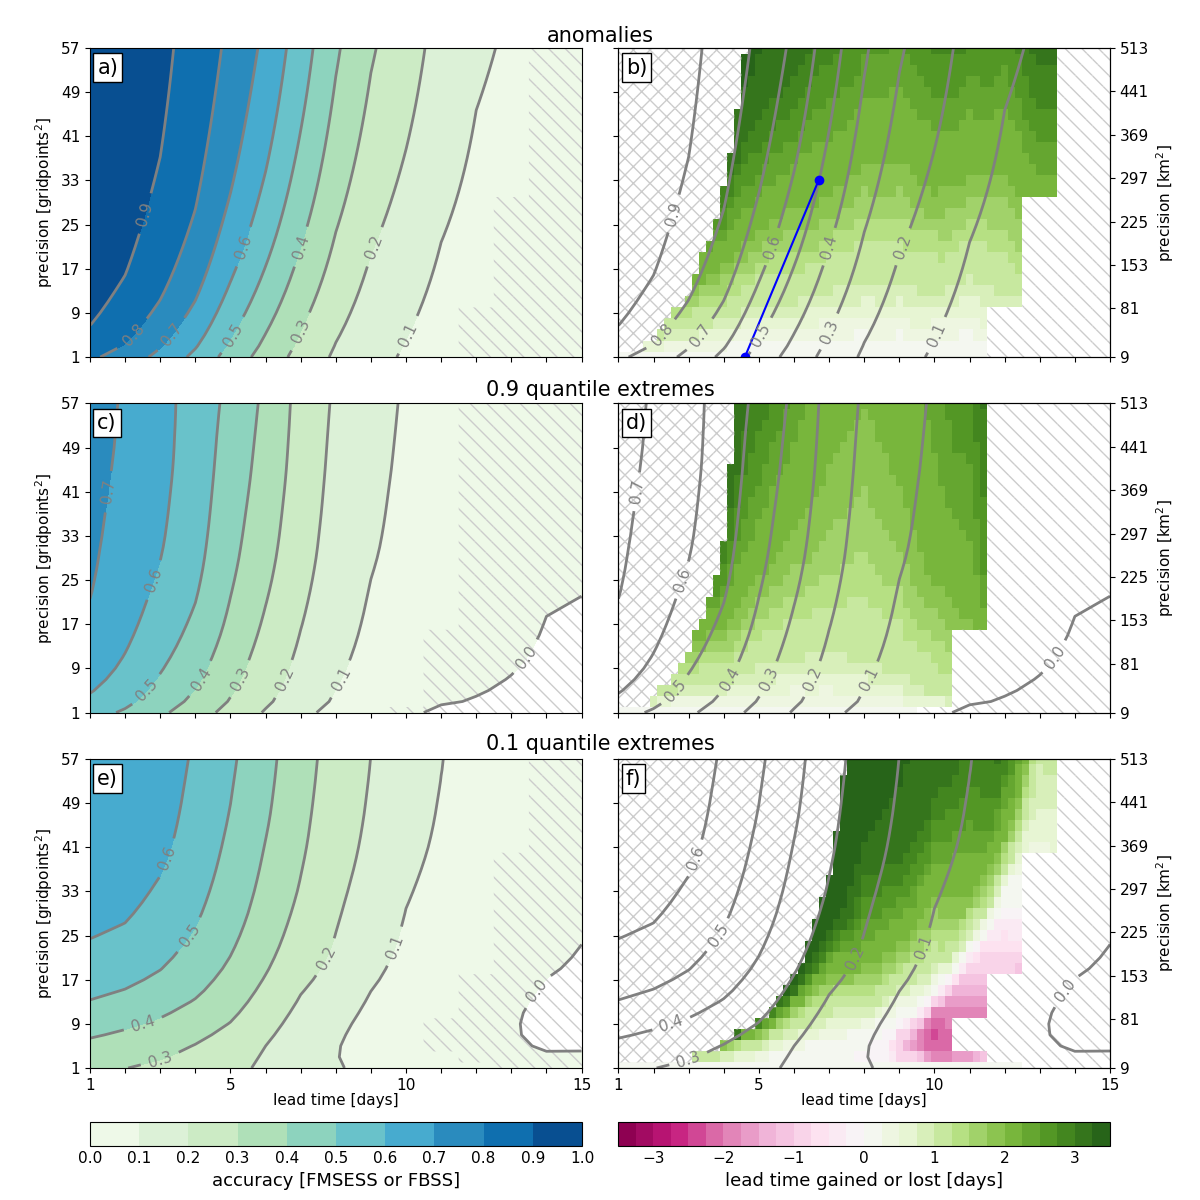
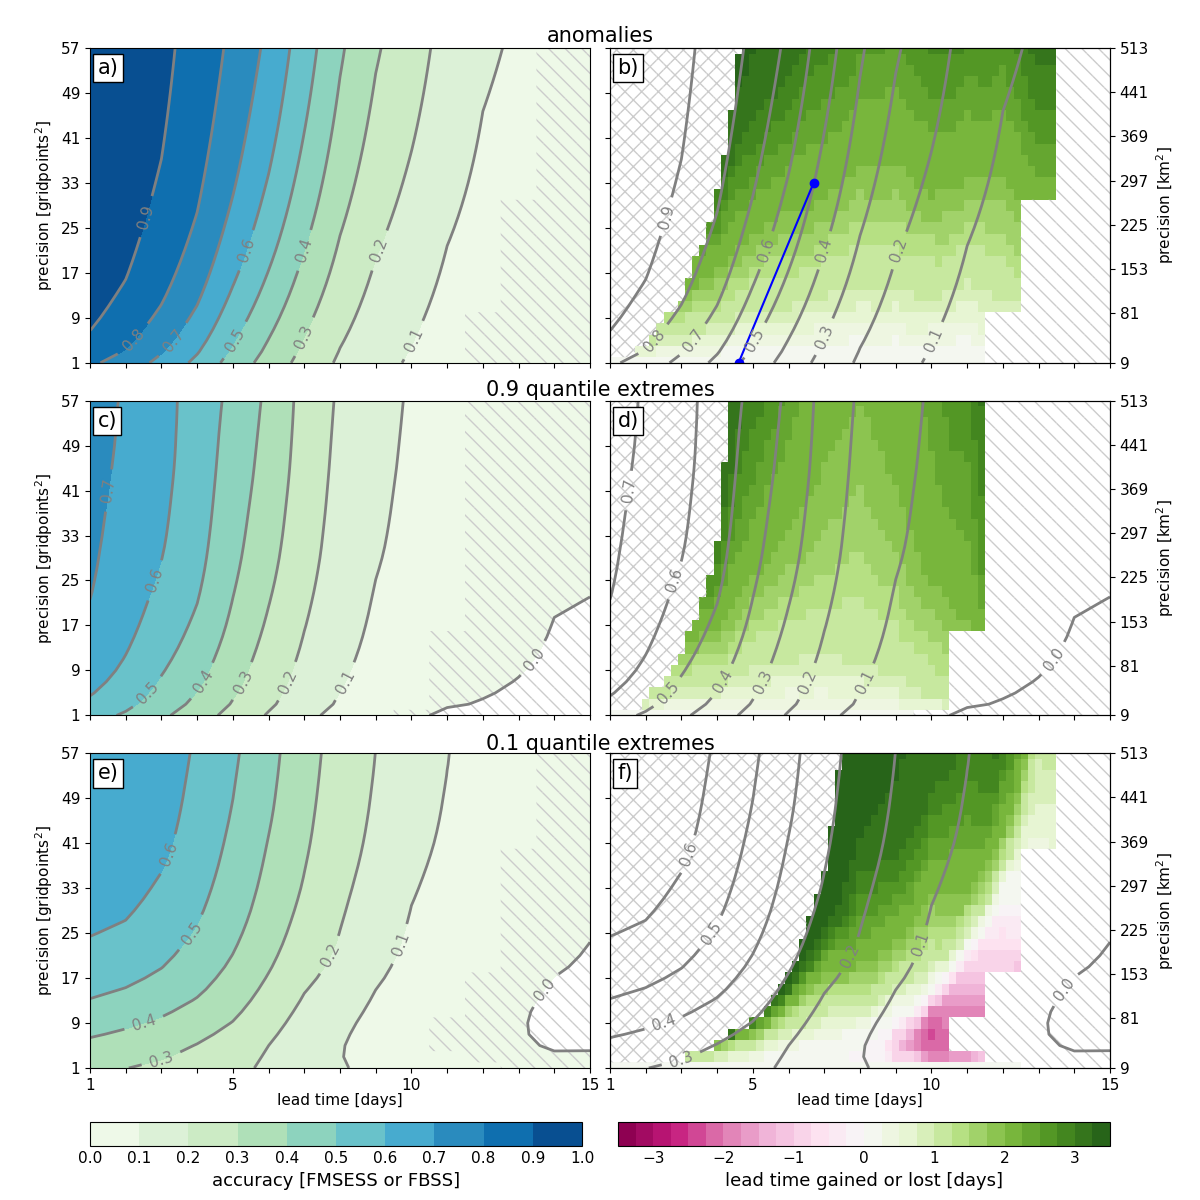
update

diff --git a/code/plot/plot-fig-01.py b/code/plot/plot-fig-01.py
@@ -55,7 +55,7 @@ def setup_subplot(flag, ax, ds, title_text, clevs_score, clevs_ltg, cmap_score, 
 
 
 # INPUT -----------------------
-write2file = False
+write2file = True
 # -----------------------------
 
 # define stuff         
@@ -99,7 +99,8 @@ setup_subplot(3, ax[3], ds2, 'd)', clevs_score,clevs_ltg, cmap_score, cmap_ltg, 
 
 p2 = setup_subplot(5, ax[5], ds3, 'f)', clevs_score,clevs_ltg, cmap_score, cmap_ltg, fontsize)
 
-fig.subplots_adjust(right=0.925, left=0.075,top=0.96,hspace=0.15,wspace=0.075)
+#fig.subplots_adjust(right=0.925, left=0.075,top=0.96,hspace=0.15,wspace=0.075)
+fig.subplots_adjust(right=0.925, left=0.075,top=0.96,hspace=0.12,wspace=0.04)
 
 cb1_ax = fig.add_axes([0.075, 0.045, 0.41, 0.02])
 cb1    = fig.colorbar(p1, cax=cb1_ax, orientation='horizontal',ticks=clevs_score, pad=0.025)
